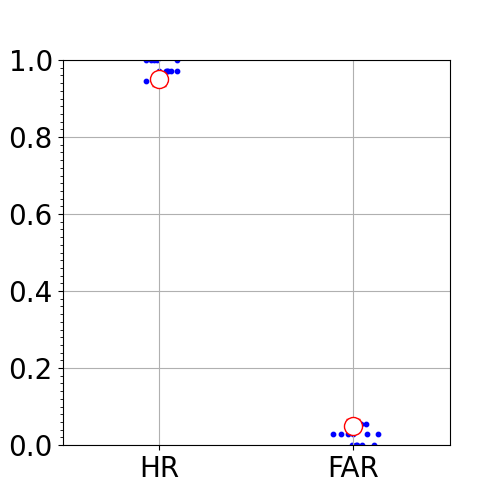
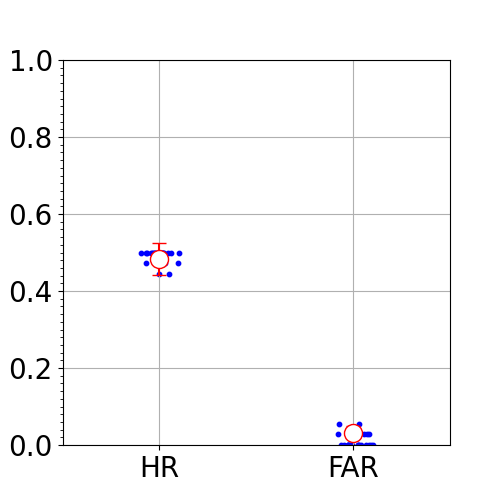
Add reliability and LFA good format for MOT, gonogo and enumeration

Changed region(s): [[0.27, 0.48, 0.36, 0.57], [0.66, 0.81, 0.75, 0.9], [0.27, 0.12, 0.36, 0.18]]

diff --git a/results-analysis/gonogo_ana_results.py b/results-analysis/gonogo_ana_results.py
@@ -171,7 +171,6 @@ def extract_mu_ci_from_summary_accuracy(dataframe, ind_cond):
     return out
 
 
-
 def extract_mu_ci_from_summary_rt(dataframe):
     out = np.zeros((1, 3))  # 3 means the mu, ci_min, and ci_max
     out[0, 0] = dataframe.mu_rt
@@ -232,41 +231,45 @@ if __name__ == '__main__':
     plt.title("Number of omission errors per participant")
     plt.savefig("../outputs/gonogo/gonogo_ommissions.png")
     plt.close()
-
     # Save data
     dataframe.to_csv("../outputs/gonogo/gonogo_treatment.csv")
 
-    # from here written by mswym
-    # condition extraction
+    # -------------------------------------------------------------------#
+    # LATENT FACTOR ANALYSIS
+    # Condition extraction
     dataframe['results_correct'] = dataframe.apply(compute_result_sum_hr, axis=1)
-    # dataframe['result_nb_omission']
-
-    # extract observer index information
-    indices_id = extract_id(dataframe, num_count=2)
 
     # sumirize two days experiments
+    condition_names = ["HR-accuracy", "FAR-accuracy", 'mean_rt']
     sum_observers = []
+    # extract observer index information
+    indices_id = extract_id(dataframe, num_count=2)
     for ob in indices_id:
         print(ob)
         tmp_df = dataframe.groupby(["participant_id"]).get_group(ob)
         sum_observers.append(
-            [np.sum(tmp_df.results_correct), np.sum(tmp_df.result_nb_omission), np.mean(tmp_df.mean_result_clean_rt)])
+            [np.sum(tmp_df.results_correct) / 36., np.sum(tmp_df.result_nb_omission) / 36.,
+             np.mean(tmp_df.mean_result_clean_rt)])
 
-    sum_observers = pd.DataFrame(sum_observers)
+    sum_observers = pd.DataFrame(sum_observers, columns=condition_names)
     # for save summary data
-    tmp = sum_observers / 36.
-    tmp.loc[:, 2] = tmp.loc[:, 2] * 36
-    tmp.to_csv('../outputs/gonogo/sumdata_egonogo.csv', header=False, index=False)
+    sum_observers.to_csv('../outputs/gonogo/sumdata_egonogo.csv', header=True, index=False)
     sum_observers['total_resp'] = sum_observers.apply(lambda row: 36, axis=1)  # two days task
+
     # -------------------------------------------------------------------#
     # Bayes accuracy analysis:
-    outcomes_names = ["accuracy"]
+    outcomes_names = ["HR-accuracy", "FAR-accuracy"]
     nb_trials = len(dataframe['results_responses'][0])
-    dataframe['accuracy'] = dataframe.apply(lambda row: row['results_correct'] / nb_trials, axis=1)
+    print(nb_trials)
+    dataframe['HR-accuracy'] = dataframe.apply(lambda row: row['results_correct'] / nb_trials, axis=1)
+    dataframe["FAR-accuracy"] = dataframe.apply(lambda row: row['result_nb_omission'] / nb_trials, axis=1)
     stan_distributions = get_stan_accuracy_distributions(dataframe, outcomes_names, nb_trials)
     # Draw figures for accuracy data
-    plot_all_accuracy_figures(stan_distributions, outcomes_names, 'gonogo', sum_observers, nb_trials)
-
+    plot_args = {'list_xlim': [0.5, 2.5], 'list_ylim': [0, 1],
+                 'list_set_xticklabels': ['HR', 'FAR'], 'list_set_xticks': [1, 2],
+                 'list_set_yticklabels': ['0.0', '0.2', '0.4', '0.6', '0.8', '1.0'],
+                 'list_set_yticks': [0, 0.2, 0.4, 0.6, 0.8, 1.0]}
+    plot_all_accuracy_figures(stan_distributions, outcomes_names, 'gonogo', dataframe, nb_trials, plot_args)
     # -------------------------------------------------------------------#
     # Masataka
     # calculate the mean distribution and the credible interval
@@ -285,23 +288,13 @@ if __name__ == '__main__':
     # draw_all_distributions_rt(dist_ind, dist_summary, len(sum_observers), num_cond=1, std_val=0.05,
     #                           fname_save='../outputs/gonogo/gonogo_rt.png')
 
-    # draw figures
-    # for accuracy data
-    dist_ind = sum_observers.iloc[0:len(sum_observers), 0:2].values / 36.
-    dist_summary = extract_mu_ci_from_summary_accuracy(class_stan_accuracy, [0, 1])
-    draw_all_distributions(dist_ind, dist_summary, len(sum_observers), num_cond=2, std_val=0.05,
-                            list_xlim=[0.5,2.5],list_ylim=[0,1],
-                            list_set_xticklabels=['HR','FAR'],list_set_xticks=[1,2],
-                            list_set_yticklabels=['0.0','0.2','0.4','0.6','0.8','1.0'],list_set_yticks=[0,0.2,0.4,0.6,0.8,1.0],
-                           fname_save='../outputs/gonogo/gonogo_hrfar.png')
-
-    dist_ind = sum_observers.iloc[0:len(sum_observers), 2].values
-    dist_summary = extract_mu_ci_from_summary_rt(class_stan_rt)
-    draw_all_distributions(dist_ind, dist_summary, len(sum_observers), num_cond=1, std_val=0.05,
-                            list_xlim=[0.5,1.5],list_ylim=[0,1],
-                            list_set_xticklabels=['HR'],list_set_xticks=[1],
-                            list_set_yticklabels=['0', '250', '500', '750'],list_set_yticks=[0, 250, 500, 750],
-                            val_ticks=25,
-                            fname_save='../outputs/gonogo/gonogo_rt.png')
+    # dist_ind = sum_observers.iloc[0:len(sum_observers), 2].values
+    # dist_summary = extract_mu_ci_from_summary_rt(class_stan_rt)
+    # draw_all_distributions(dist_ind, dist_summary, len(sum_observers), num_cond=1, std_val=0.05,
+    #                         list_xlim=[0.5,1.5],list_ylim=[0,1],
+    #                         list_set_xticklabels=['HR'],list_set_xticks=[1],
+    #                         list_set_yticklabels=['0', '250', '500', '750'],list_set_yticks=[0, 250, 500, 750],
+    #                         val_ticks=25,
+    #                         fname_save='../outputs/gonogo/gonogo_rt.png')
 
     print('finished')

diff --git a/results-analysis/utils.py b/results-analysis/utils.py
@@ -16,14 +16,16 @@ def extract_mu_ci_from_summary_accuracy(dataframe, ind_cond):
     return out
 
 
-def plot_all_accuracy_figures(stan_distributions, outcomes_names, task_name, overall_initial_data, nb_trials):
+def plot_all_accuracy_figures(stan_distributions, outcomes_names, task_name, overall_initial_data, nb_trials,
+                              plot_args):
     plot_prepost_mean_accuracy_distribution(outcomes_names, stan_distributions,
                                             f'../outputs/{task_name}/{task_name}_distrib_reliability.png')
     dist_ind = overall_initial_data.loc[:, outcomes_names].values
     dist_summary = extract_mu_ci_from_summary_accuracy(stan_distributions['overall'],
                                                        ind_cond=[elt for elt in range(len(outcomes_names))])
-    draw_all_distributions(dist_ind, dist_summary, len(overall_initial_data), num_cond=len(outcomes_names), std_val=0.05,
-                           fname_save=f'../outputs/{task_name}/{task_name}_hrfar.png')
+    draw_all_distributions(dist_ind, dist_summary, len(overall_initial_data), num_cond=len(outcomes_names),
+                           std_val=0.05,
+                           fname_save=f'../outputs/{task_name}/{task_name}_hrfar.png', **plot_args)
 
 
 def get_stan_accuracy_distributions(dataframe, outcomes_names, nb_trials):
@@ -102,27 +104,31 @@ def extract_id(dataframe, num_count):
     return indices_id
 
 
-def draw_all_distributions(dist_ind,dist_summary,num_dist,num_cond,std_val = 0.05,list_xlim=[0.75,5.25],list_ylim=[0,1],
-                                list_set_xticklabels=['5','6','7','8','9'],list_set_xticks=[1,2,3,4,5],
-                                list_set_yticklabels=['0.0','0.2','0.4','0.6','0.8','1.0'],list_set_yticks=[0,0.2,0.4,0.6,0.8,1.0],
-                                val_ticks = 0.02,
-                                fname_save='workingmemory_accuracy.png'):
+def draw_all_distributions(dist_ind, dist_summary, num_dist, num_cond, std_val=0.05, list_xlim=[0.75, 5.25],
+                           list_ylim=[0, 1],
+                           list_set_xticklabels=['5', '6', '7', '8', '9'], list_set_xticks=[1, 2, 3, 4, 5],
+                           list_set_yticklabels=['0.0', '0.2', '0.4', '0.6', '0.8', '1.0'],
+                           list_set_yticks=[0, 0.2, 0.4, 0.6, 0.8, 1.0],
+                           val_ticks=0.02,
+                           fname_save='workingmemory_accuracy.png'):
     # dist_ind is the matrix of (num_observers x num_conditions)
     # dist_summary is the mu (numb_conditions), ci_min, and ci_max
-    x = [j+1+std_val*np.random.randn() for j in range(num_cond) for t in range(num_dist)]
+    x = [j + 1 + std_val * np.random.randn() for j in range(num_cond) for t in range(num_dist)]
     dist_ind = dist_ind.T.flatten()
-    x_sum = np.linspace(1,num_cond,num_cond)
-    fig = plt.figure(figsize=(5,5))
-    axes = fig.add_subplot(1,1,1)
-    axes.scatter(x,dist_ind,s=10,c='blue')
-    axes.errorbar(x_sum, dist_summary[:,0], yerr = [dist_summary[:,0]-dist_summary[:,1], dist_summary[:,2]-dist_summary[:,0]], capsize=5, fmt='o', markersize=13, ecolor='red', markeredgecolor = "red", color='w')
+    x_sum = np.linspace(1, num_cond, num_cond)
+    fig = plt.figure(figsize=(5, 5))
+    axes = fig.add_subplot(1, 1, 1)
+    axes.scatter(x, dist_ind, s=10, c='blue')
+    axes.errorbar(x_sum, dist_summary[:, 0],
+                  yerr=[dist_summary[:, 0] - dist_summary[:, 1], dist_summary[:, 2] - dist_summary[:, 0]], capsize=5,
+                  fmt='o', markersize=13, ecolor='red', markeredgecolor="red", color='w')
     axes.set_xlim(list_xlim)
     axes.set_ylim(list_ylim)
     axes.xaxis.grid(True, which='minor')
     axes.set_xticks(list_set_xticks)
-    axes.set_xticklabels(list_set_xticklabels,fontsize=20)
+    axes.set_xticklabels(list_set_xticklabels, fontsize=20)
     axes.set_yticks(list_set_yticks)
-    axes.set_yticklabels(list_set_yticklabels,fontsize=20)
+    axes.set_yticklabels(list_set_yticklabels, fontsize=20)
     axes.grid()
     axes.yaxis.set_minor_locator(MultipleLocator(val_ticks))
     fig.savefig(fname_save)
@@ -168,4 +174,3 @@ def plot_prepost_mean_accuracy_distribution(conditions, stan_distributions, fign
 
     fig.tight_layout()
     fig.savefig(figname)
-

diff --git a/results-analysis/moteval_ana_results.py b/results-analysis/moteval_ana_results.py
@@ -40,7 +40,6 @@ def extract_mu_ci_from_summary_rt(dataframe):
     return out
 
 
-
 if __name__ == '__main__':
     # -------------------------------------------------------------------#
     # FIRST TREAT THE CSV AND PARSE IT TO DF
@@ -65,10 +64,6 @@ if __name__ == '__main__':
         sum_observers.append([np.mean(tmp_df[index]) for index in outcomes_names])
     sum_observers = pd.DataFrame(sum_observers, columns=outcomes_names)
     sum_observers['total_resp'] = dataframe.apply(count_number_of_trials, axis=1)  # two days task
-    # Transform accuracy into nb of success:
-    for col in outcomes_names:
-        if 'accuracy' in col:
-            sum_observers[col] = sum_observers[col] * sum_observers['total_resp']
     # for save summary data
     sum_observers.to_csv('../outputs/moteval/sumdata_moteval.csv')
     # -------------------------------------------------------------------#
@@ -80,25 +75,16 @@ if __name__ == '__main__':
     nb_trials = len(dataframe['results_correct'][0])
     stan_distributions = get_stan_accuracy_distributions(dataframe, outcomes_names, nb_trials)
     # Draw figures for accuracy data
-    plot_all_accuracy_figures(stan_distributions, outcomes_names, 'moteval', sum_observers, nb_trials)
+    plt_args = {'list_xlim': [0.75, 3.25], 'list_ylim': [0, 1],
+                'list_set_xticklabels': ['1', '4', '8'], 'list_set_xticks': [1, 2, 3],
+                'list_set_yticklabels': ['0.0', '0.2', '0.4', '0.6', '0.8', '1.0'],
+                'list_set_yticks': [0, 0.2, 0.4, 0.6, 0.8, 1.0], }
+    plot_all_accuracy_figures(stan_distributions, outcomes_names, 'moteval', dataframe, nb_trials, plt_args)
     # -------------------------------------------------------------------#
 
     # -------------------------------------------------------------------#
     # BAYES RT ANALYSIS:
     # class_stan_rt_overall = CalStan_rt(sum_observers, ind_rt=2, max_rt=1000)
-    class_stan_accuracy = [CalStan_accuracy(sum_observers, ind_corr_resp=n) for n in
-                           [f"{elt}-accuracy" for elt in [1, 4, 8]]]
-
-    # draw figures
-    # for accuracy data
-    dist_ind = sum_observers.loc[:, [f"{elt}-accuracy" for elt in [1, 4, 8]]].values / 45
-    dist_summary = extract_mu_ci_from_summary_accuracy(class_stan_accuracy, [0, 1, 2])
-    draw_all_distributions(dist_ind, dist_summary, len(sum_observers), num_cond=3, std_val=0.05,
-                            list_xlim=[0.75,3.25],list_ylim=[0,1],
-                            list_set_xticklabels=['1','4','8'],list_set_xticks=[1,2,3],
-                            list_set_yticklabels=['0.0','0.2','0.4','0.6','0.8','1.0'],list_set_yticks=[0,0.2,0.4,0.6,0.8,1.0],
-                            fname_save='../outputs/moteval/moteval_hrfar.png')
-
     # dist_ind = sum_observers.iloc[0:len(sum_observers), 2].values
     # dist_summary = extract_mu_ci_from_summary_rt(class_stan_rt_overall)
     # draw_all_distributions_rt(dist_ind, dist_summary, len(sum_observers), num_cond=1, std_val=0.05,

diff --git a/results-analysis/enumeration_ana_results.py b/results-analysis/enumeration_ana_results.py
@@ -58,7 +58,6 @@ def extract_mu_ci_from_summary_accuracy(dataframe, ind_cond):
     return out
 
 
-
 if __name__ == '__main__':
     # -------------------------------------------------------------------#
     # FIRST TREAT THE CSV AND PARSE IT TO DF
@@ -124,17 +123,12 @@ if __name__ == '__main__':
     nb_trials = len(dataframe['5'][0])
     stan_distributions = get_stan_accuracy_distributions(dataframe, condition_names, nb_trials)
     # Draw figures for accuracy data
-    plot_all_accuracy_figures(stan_distributions, condition_names, 'enumeration', dataframe, nb_trials)
-
-    #draw figures
-    #for accuracy data
-    dist_ind = sum_observers.iloc[0:len(sum_observers),0:5].values/40.
-    dist_summary = extract_mu_ci_from_summary_accuracy(class_stan_accuracy,[0,1,2,3,4])
-    draw_all_distributions(dist_ind,dist_summary,len(sum_observers),num_cond=5,std_val = 0.05,
-                                list_xlim=[0.75,5.25],list_ylim=[0,1],
-                                list_set_xticklabels=['5','6','7','8','9'],list_set_xticks=[1,2,3,4,5],
-                                list_set_yticklabels=['0.0','0.2','0.4','0.6','0.8','1.0'],list_set_yticks=[0,0.2,0.4,0.6,0.8,1.0],
-                                fname_save='../outputs/enumeration/enumeration_accuracy.png')
+    plot_args = {'list_xlim': [0.75, 5.25], 'list_ylim': [0, 1],
+                 'list_set_xticklabels': [str(i) for i in range(5, 10)],
+                 'list_set_xticks': [i for i in range(1, 6)],
+                 'list_set_yticklabels': ['0.0', '0.2', '0.4', '0.6', '0.8', '1.0'],
+                 'list_set_yticks': [0, 0.2, 0.4, 0.6, 0.8, 1.0]}
+    plot_all_accuracy_figures(stan_distributions, condition_names, 'enumeration', dataframe, nb_trials, plot_args)
     print('finished')
     # -------------------------------------------------------------------#
     # Masataka :

diff --git a/results-analysis/cal_stan_accuracy_rt.py b/results-analysis/cal_stan_accuracy_rt.py
@@ -22,7 +22,7 @@ self.ci_max
 # fname_csv1 = 'accuracy_data.csv'
 class CalStan_accuracy():
     def __init__(self, dataframe, ind_corr_resp='corr_resp', ind_total_resp='total_resp', num_chains=4,
-                 num_samples=10):
+                 num_samples=10000):
         self.binomial_code = """
         data {
           int nums;  //total number of participants
